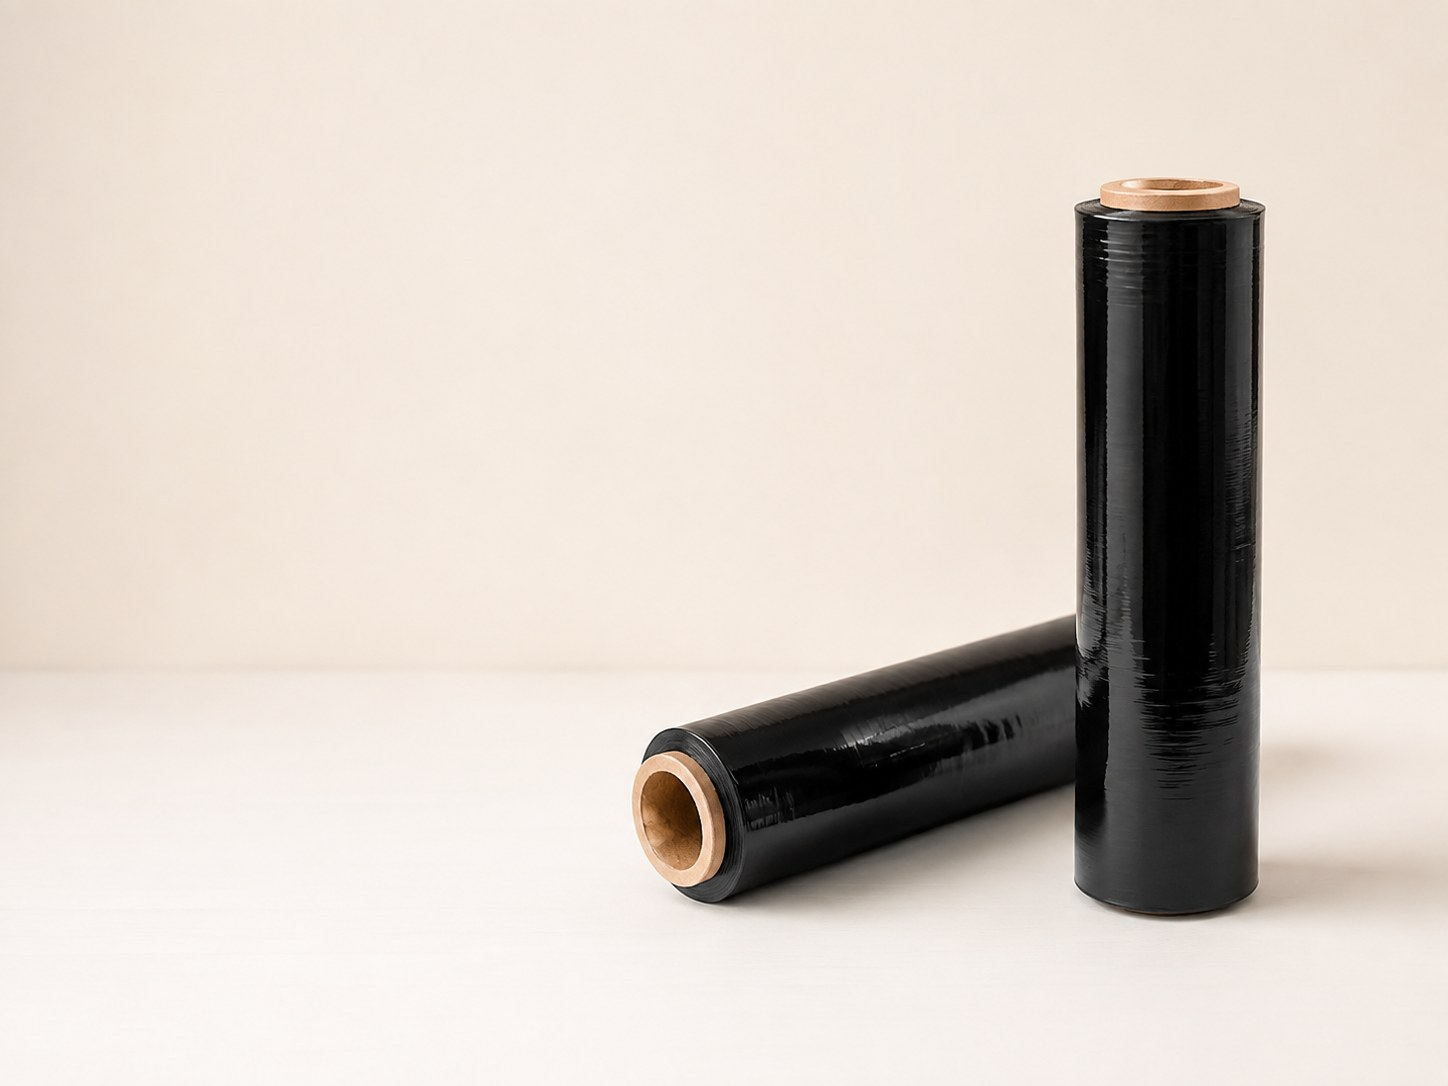
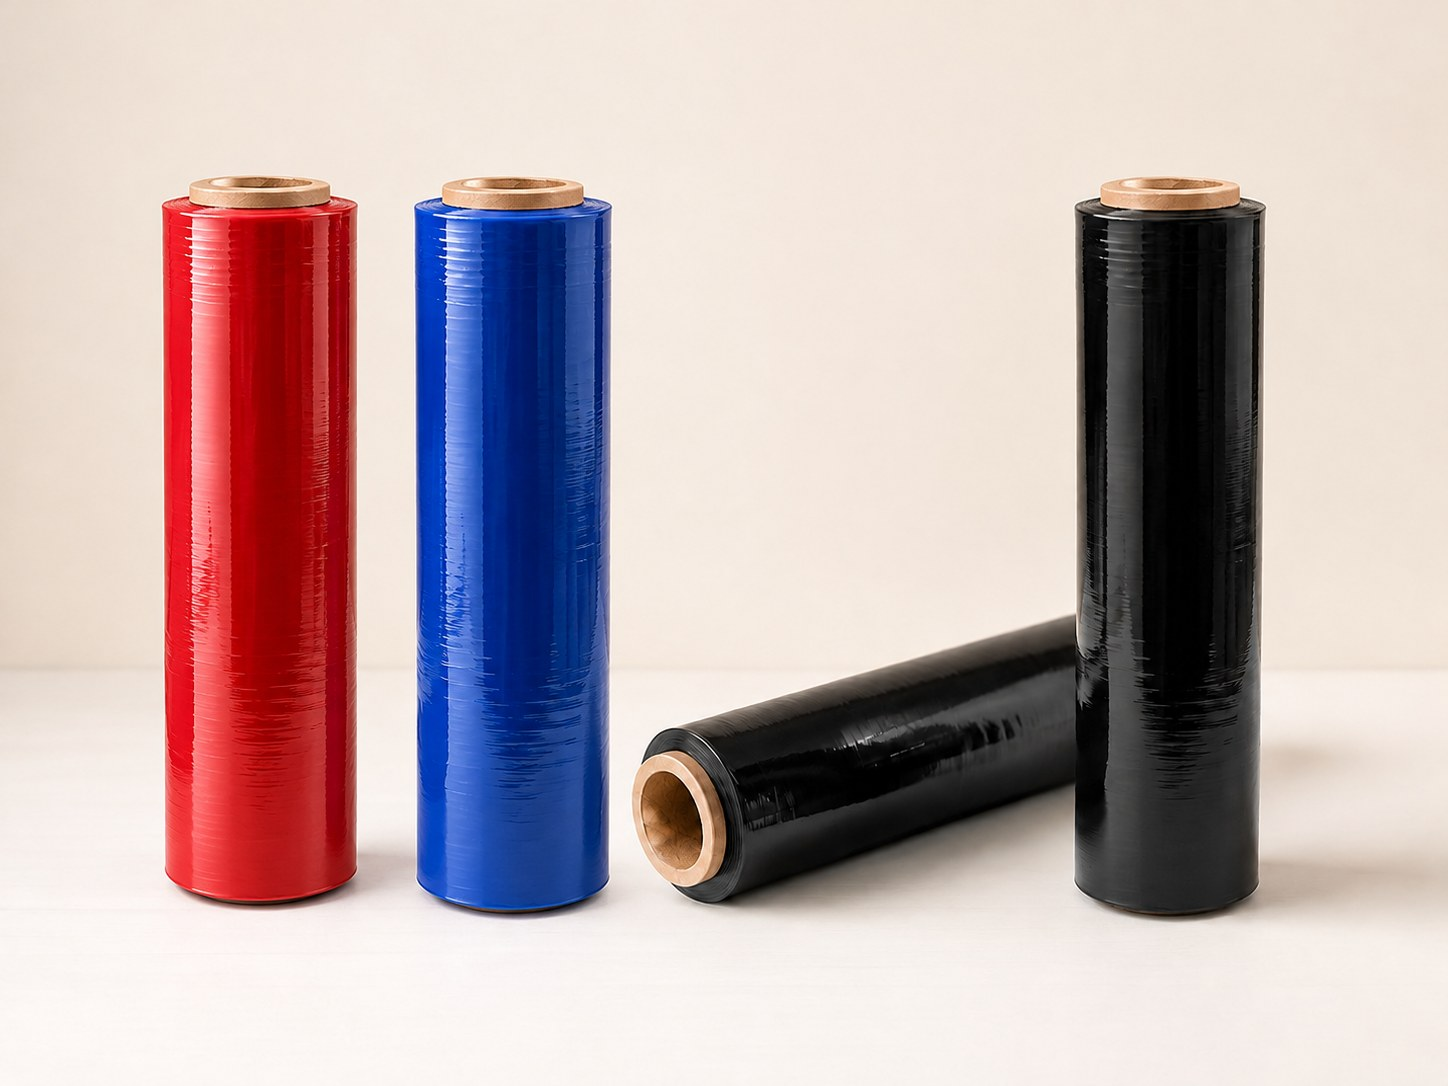
nuevo

diff --git a/src/industria.js b/src/industria.js
@@ -17,7 +17,7 @@ export const familiasIndustria = [
         foto: "/productos/film-stretch/mini.jpg",
         aplicacion: "Sujeción manual de piezas pequeñas, perfiles y bultos.",
         beneficio: "Autoadherencia, resistencia y flexibilidad para asegurar piezas con rapidez.",
-        presentacion: "Cristal o negro · 18 a 30 micrones · elongación hasta 250%.",
+        presentacion: "Cristal o negro · elongación hasta 250%.",
       },
       {
         id: "manual-50-cristal",
@@ -25,15 +25,15 @@ export const familiasIndustria = [
         foto: "/productos/film-stretch/cristal.jpg",
         aplicacion: "Paletizado y protección de cargas industriales.",
         beneficio: "Aporta estabilidad, sujeción uniforme y excelente visibilidad de la carga.",
-        presentacion: "20 a 25 micrones · bobinas de 4,5 a 5 kg · elongación 250% a 300%.",
+        presentacion: "Bobinas de 4,5 a 5 kg · elongación 250% a 300%.",
       },
       {
         id: "manual-50-negro",
-        nombre: "Stretch Film Manual 50 cm Negro",
+        nombre: "Stretch Film Manual 50 cm Color",
         foto: "/productos/film-stretch/negro.jpg",
-        aplicacion: "Paletizado con mayor privacidad y seguridad visual.",
-        beneficio: "Consolida la carga y ayuda a ocultar el contenido durante la operación logística.",
-        presentacion: "20 a 25 micrones · bobinas de 4,5 a 5 kg · color negro opaco.",
+        aplicacion: "Paletizado con mayor privacidad, seguridad visual y organización por color.",
+        beneficio: "Consolida la carga, ayuda a ocultar el contenido y facilita identificar y diferenciar el material por color durante la operación logística.",
+        presentacion: "Disponible en negro, azul, rojo y otros colores · bobinas de 4,5 a 5 kg.",
       },
       {
         id: "liviano-50",
@@ -41,7 +41,7 @@ export const familiasIndustria = [
         foto: "/productos/film-stretch/liviano.jpg",
         aplicacion: "Uso manual frecuente para bultos medianos y tareas de embalaje dinámicas.",
         beneficio: "Mayor maniobrabilidad y rendimiento para operaciones ágiles.",
-        presentacion: "Bobina liviana de 3 kg · 20 a 25 micrones · formato práctico.",
+        presentacion: "Bobina liviana de 3 kg · formato práctico.",
       },
       {
         id: "roma-pack",
